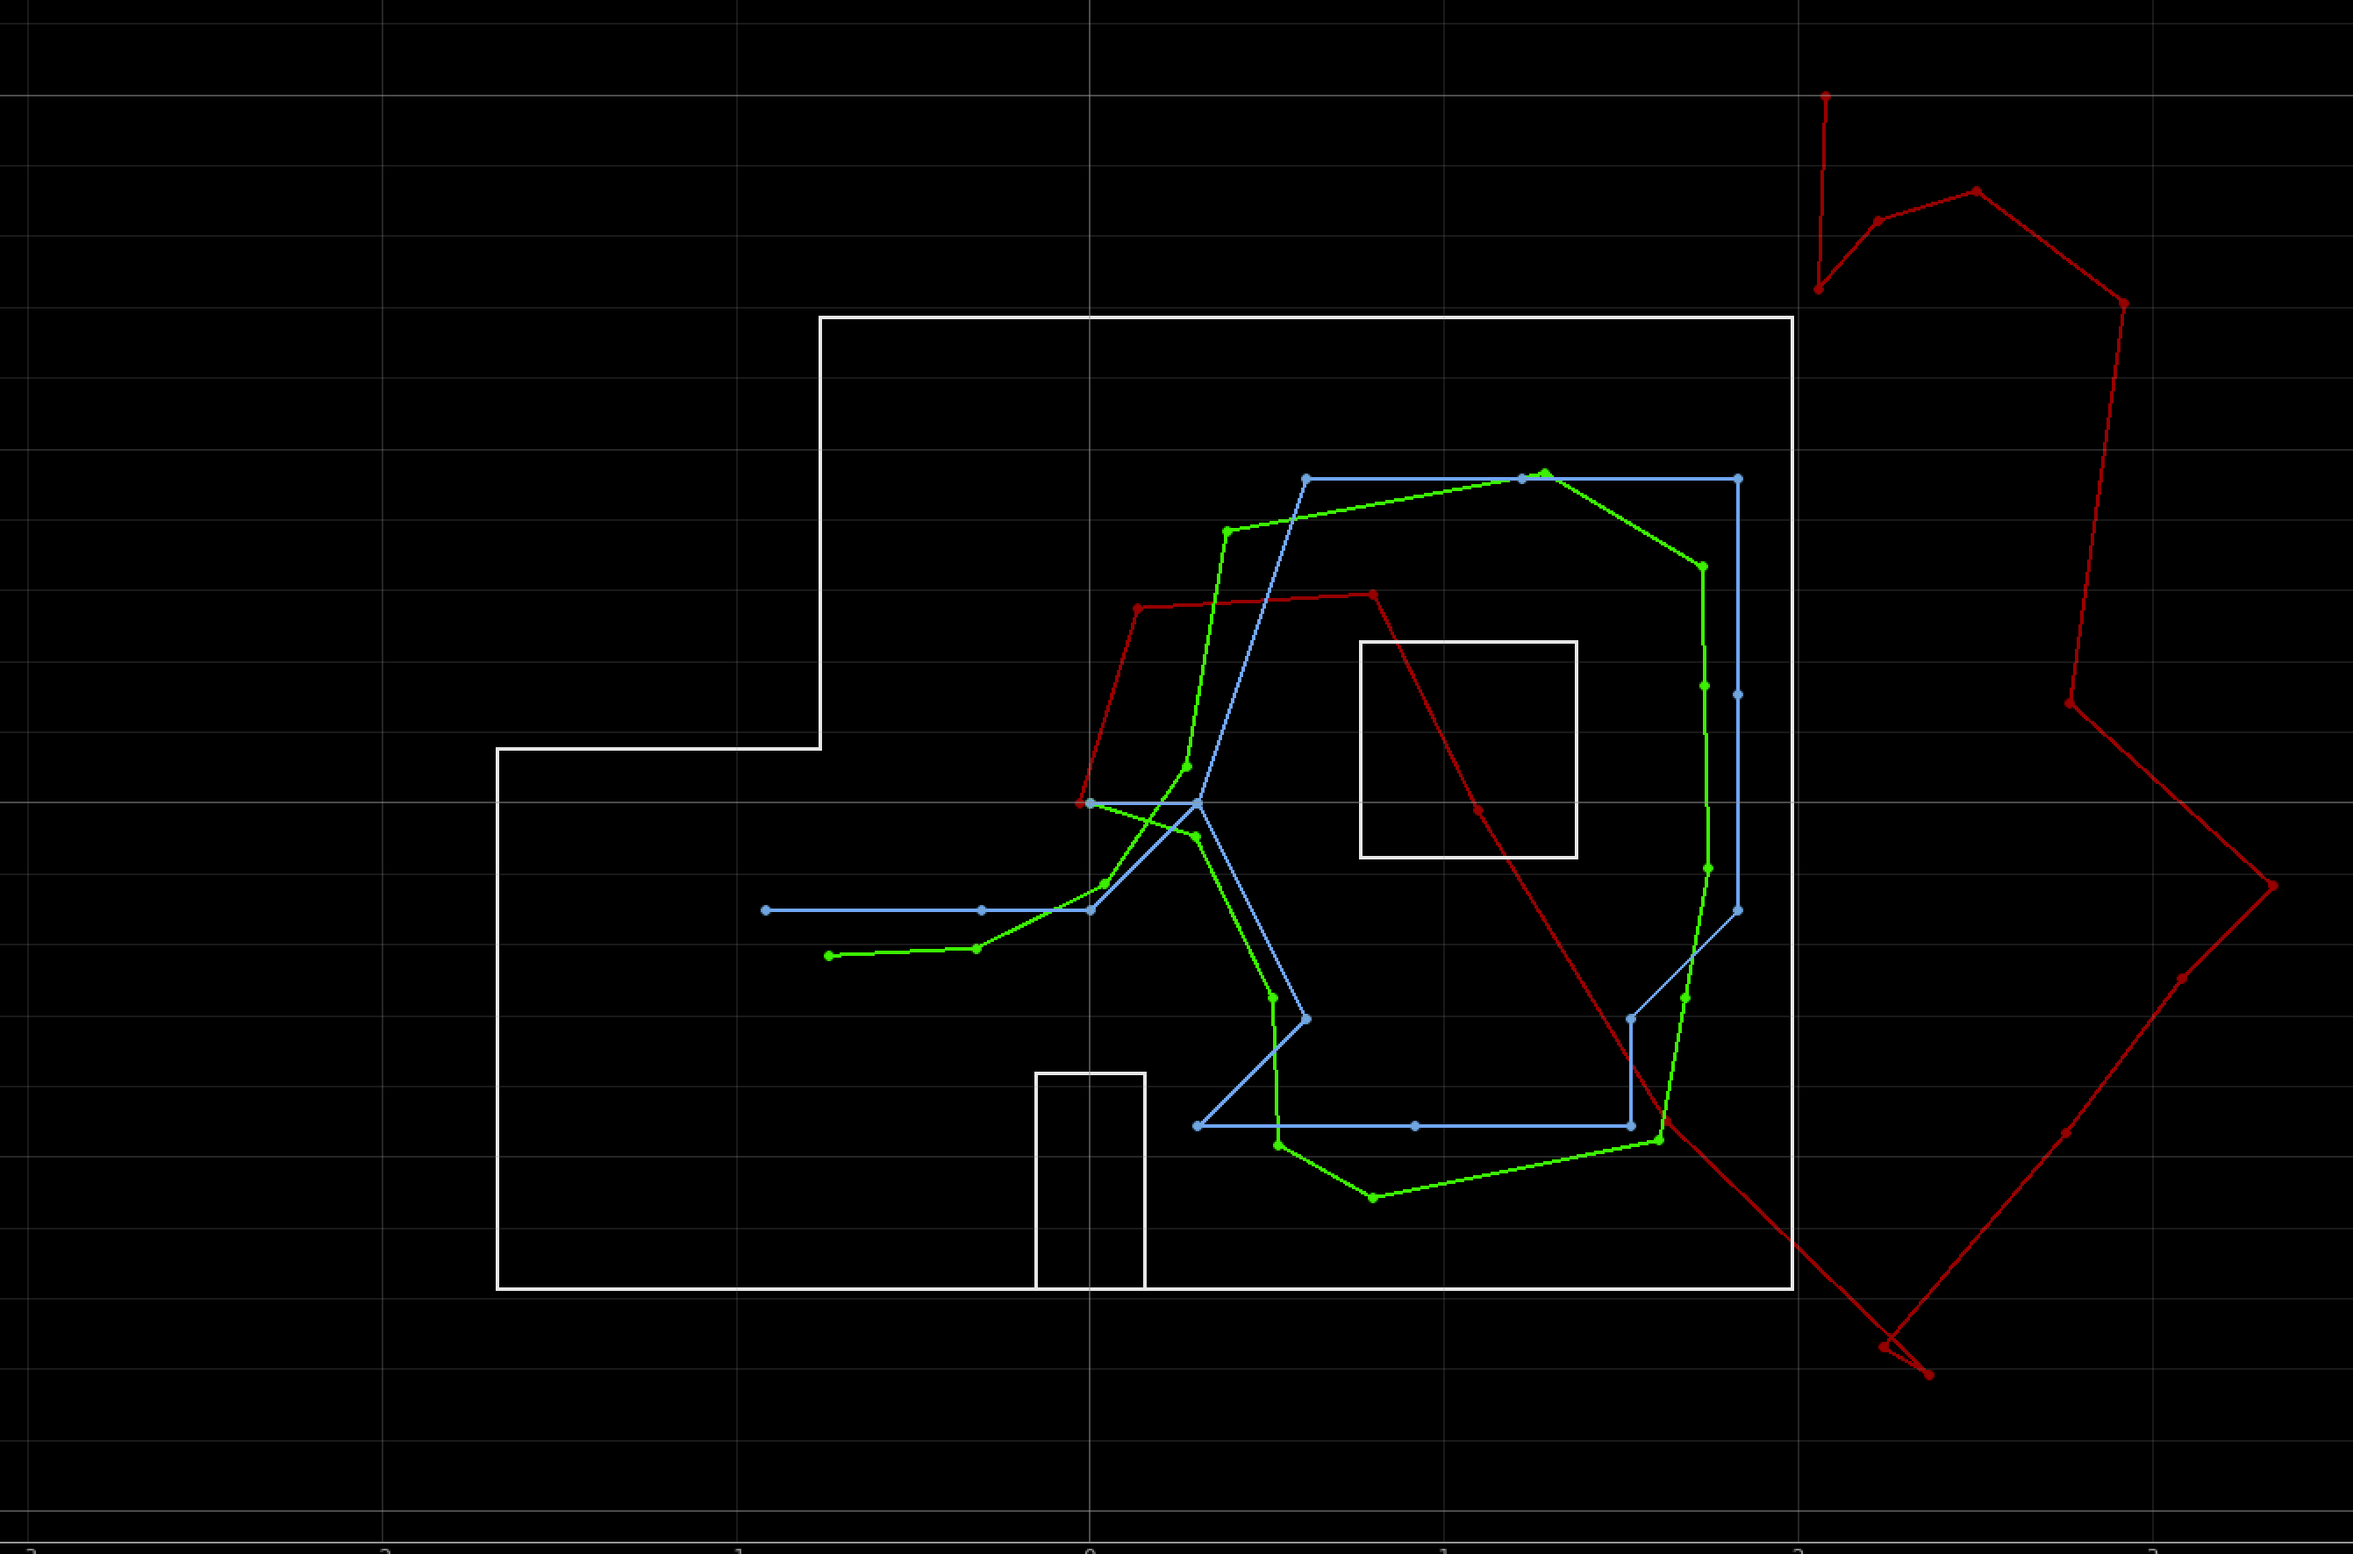
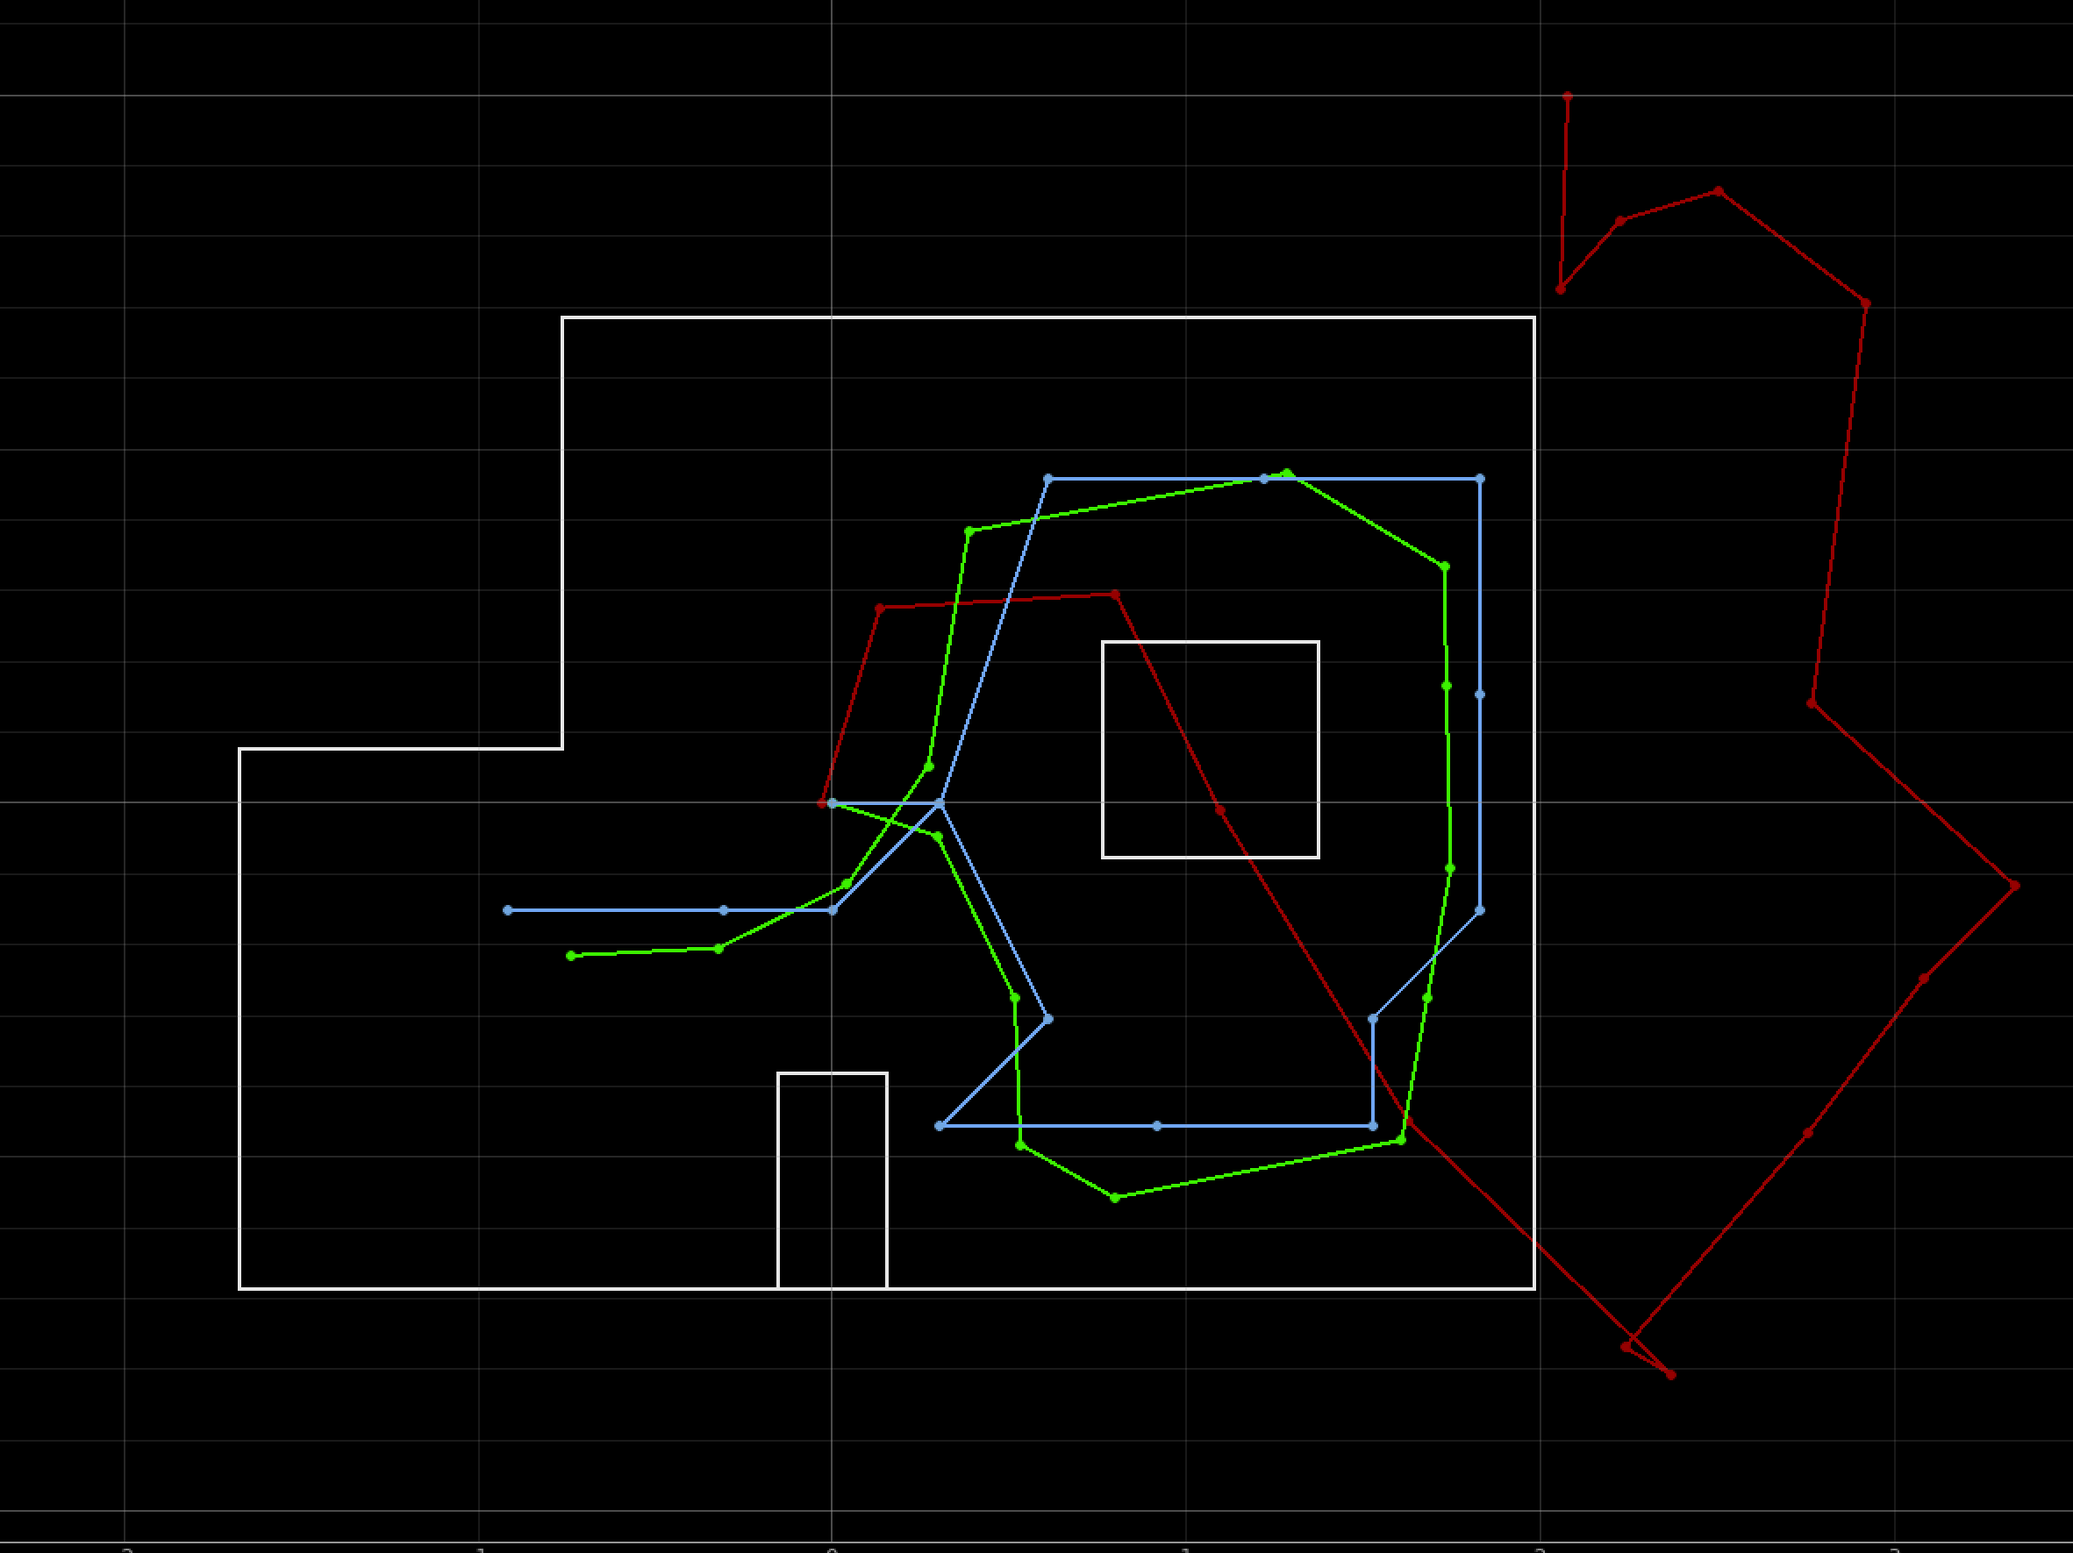
update

diff --git a/index.html b/index.html
@@ -1772,7 +1772,7 @@
                                     </div>
 
                                     <h3 class="text-center">Goal</h3>
-                                    <p class="mb-4">The goal of this lab is to perform robot navigation through a set of waypoints in the map as quickly and accurately as possible..</p>
+                                    <p class="mb-4">The goal of this lab is to perform robot navigation through a set of waypoints in the map as quickly and accurately as possible.</p>
 
                                     <h3 class="text-center">Lab Tasks</h3>
                                     <!--<p class="mb-4">the procedure of this lab</p>-->
@@ -1795,7 +1795,7 @@
                                         9. (0, 0)      &lt--end<br>
                                     </p>
                                     <p class="mb-4">
-                                        Since errors from the previous step propagte throughiut the navigation, the later points get harder to hit.
+                                        Since errors from the previous step propagte throughout the navigation, the later points get harder to hit.
                                         We will try out best to mitigate the error.
                                     </p>
 
@@ -1807,20 +1807,45 @@
                                         In addition, depending on the battery level, our localization would end at a different angle and would cause us trouble for the rest of the nagivation.
                                         In order to address this issue, we tried to use the magnetometer to tell us the group truth angle so that we can correct for our heading angle.
                                         To do this, we made our robot stop so that the motor's magnetic field would not interfere with that of the magnetometer and took the measurement.
-
-                                        robot path plan and drive around the map using PID, Kalman Filter, and global path planning.
+                                        Due to our sample number problem, we decided to use another method.
                                     </p>
                                     <p class="mb-4"><b>Our Plan:</b></p>
                                     <p class="mb-4">We decided to go with closed loop gobal path planning method.
+                                        Our computer would send commands for the robot to perform and the robot will not send back any data since we are not doing localization.
+                                        When driving forward, we use Kalman Filter and PID. 
+                                        We use Kalman Filter to go a certain distance from where we are (e.g. we can tell it to go 1 ft).
+                                        We use PID to go a certain distance from a wall (e.g. we can tell it to go 1 ft away from the wall).
+                                        When turning, we use PID to get to get to a certain angle either through turning right or tunring left. 
+                                        We use this feedback system so that the robot would more accurately drive or turn a certain distance.
+                                        In terms of work distribution, I integrated the PID and Kalman Filter to move forward with the use of ToF, Tiantian integrated the PID turning for the IMU, and Raphael integrated the global path planning code for controlling the robot. 
+                                    </p>
 
-
+                                    <h5>Navigation</h5>
+                                    <p class="mb-4">
                                         At first, we tried to take the shortest path to the waypoints. 
                                         However we found out that the ToF readings at an angle wasn't as accurate as we want it to be. 
                                         So, we decided to create way points in the middle so that all of our robot rotations are about 90 degrees.
+                                        Below is our new path shown in red.
                                     </p>
+                                    <img class="img-fluid rounded mb-5" width="560" height="315" src="assets/img/lab12/our_path.png" alt="...">
 
+                                    <p class="mb-4"><b>PID on Forward (distance away from wall):</b></p>
+                                    <p class="mb-4">Below is our code snippet to do proportional controller to get to a certain distance from the wall.</p>
+                                    <script src="https://gist.github.com/jueunkwon/bd382dd75a45c59a58b5eb341b36b00e.js"></script>
+                                    <p class="mb-4"><b>Kalman Filter on Forward (distance from where it is at):</b></p>
+                                    <p class="mb-4">Below is our code snippet to do kalman filter to go a certain distance from it's location.</p>
+                                    <script src="https://gist.github.com/jueunkwon/d0c9ff69911d7196e5bddfcd2781e077.js"></script>
 
+                                    <p class="mb-4"><b>PID on Turning:</b></p>
+                                    <p class="mb-4">Below is our code snippet to do proportional controller on turn right and turn left.</p>
+                                    <script src="https://gist.github.com/jueunkwon/e91051a3ce05250c1e4bf711a71b76b5.js"></script>
+
+                                    <p class="mb-4"><b>Path Planner:</b></p>
+                                    <p class="mb-4">Below is our code snippet to do proportional controller on turn right and turn left.</p>
                                     
+
+
+
 
 
 
